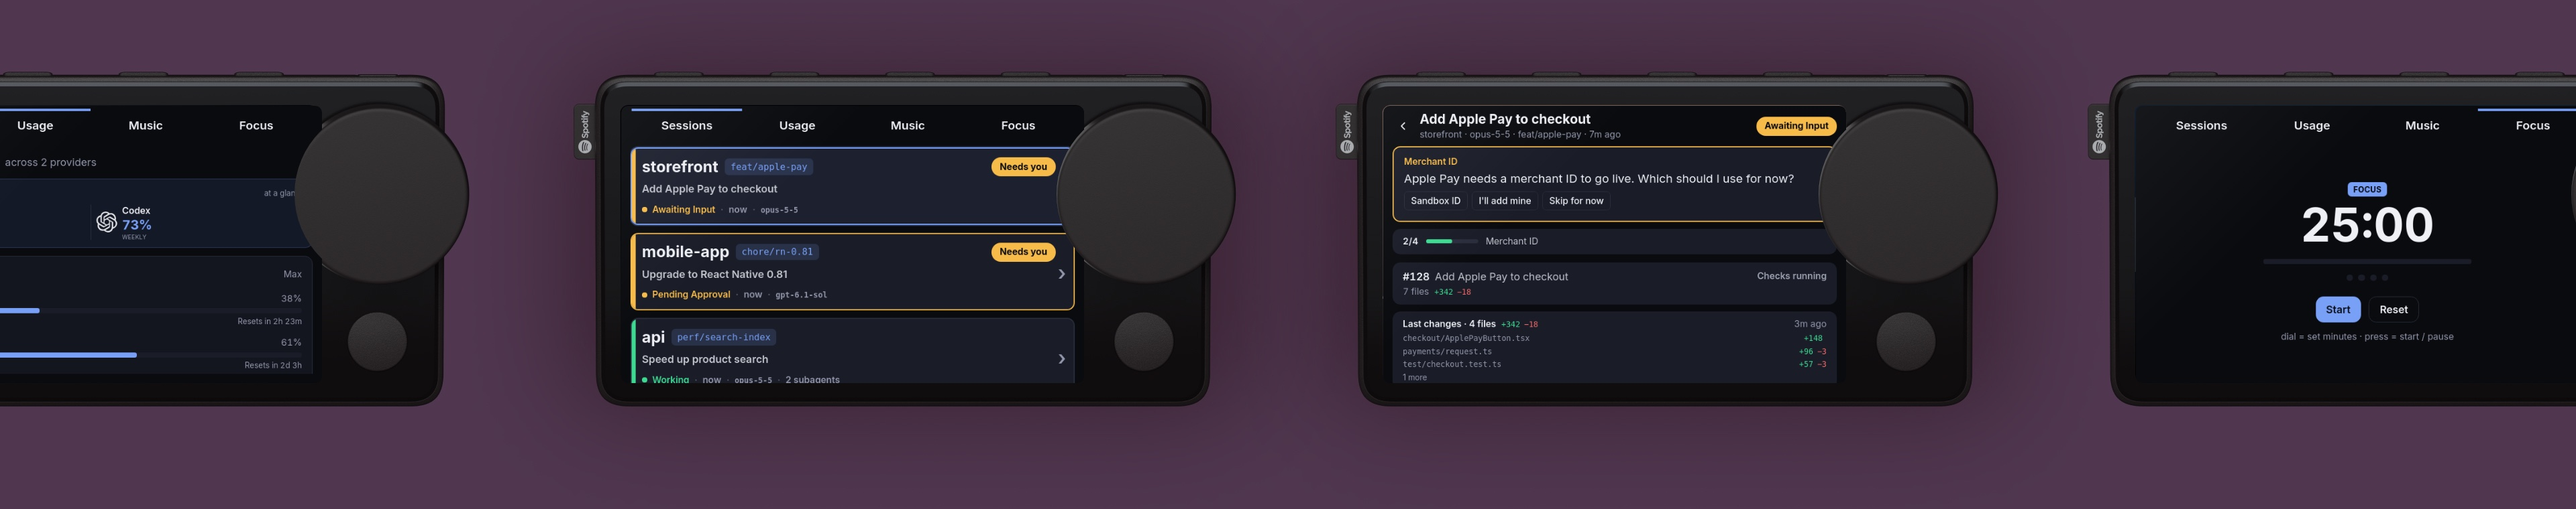
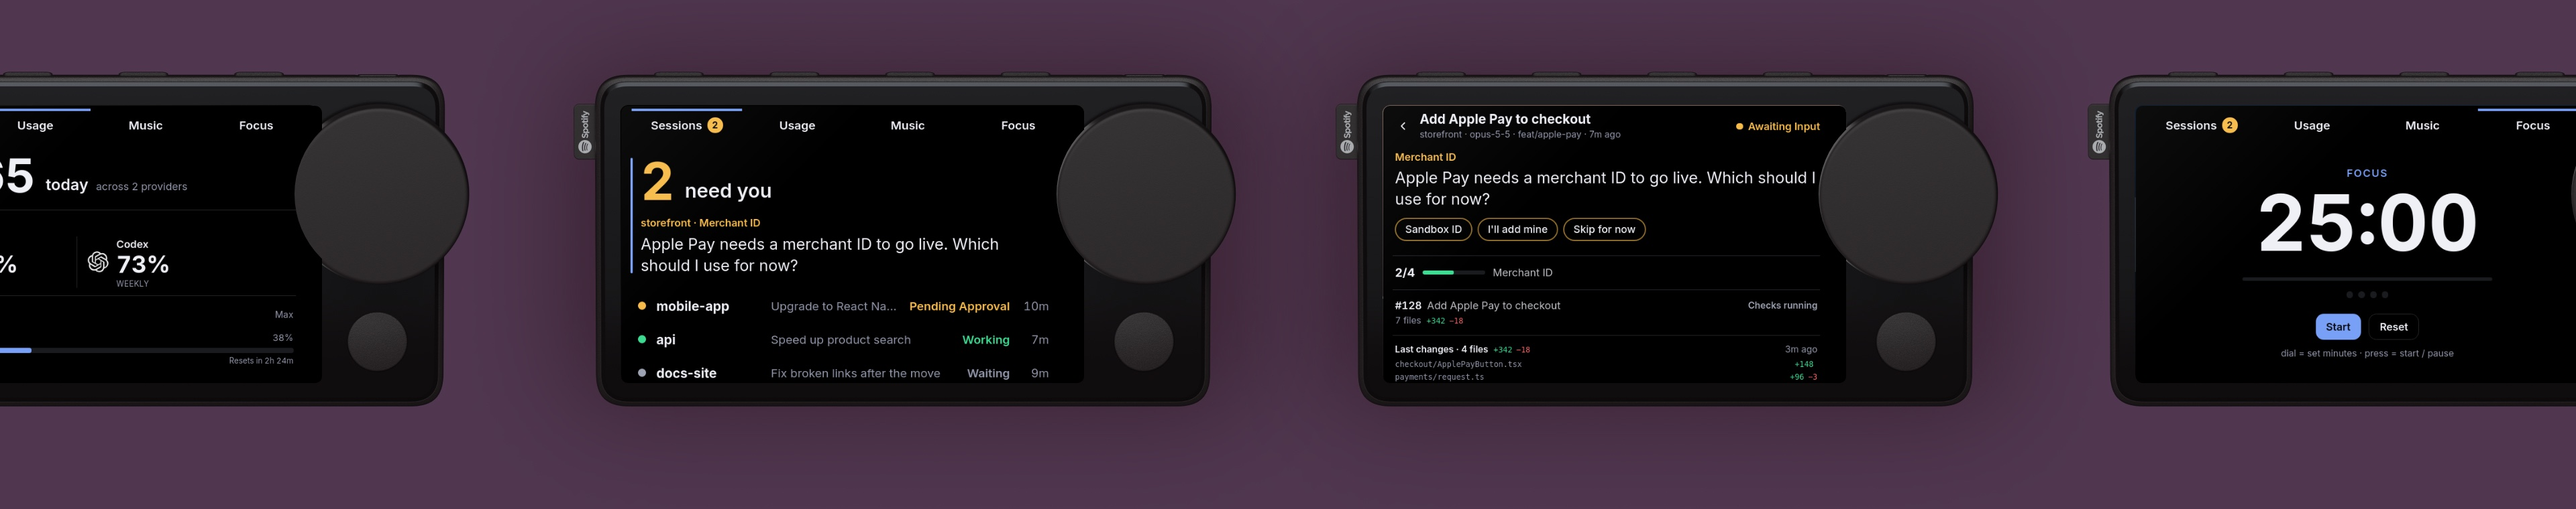
docs: refresh screenshots for the new look

diff --git a/README.md b/README.md
@@ -17,8 +17,8 @@ stays on all day.
 
 | | |
 |---|---|
-| ![Sessions board with two threads that need you and one working](docs/images/sessions.png) | ![Session detail with a question from the agent, task progress, a pull request and changed files](docs/images/session-detail.png) |
-| **Sessions.** Every active thread, sorted so the ones waiting for you come first. Each card shows the project, branch, status, model and running subagents. | **Session detail.** What the thread needs from you or is doing right now, its task progress, linked pull requests with their checks, the files it last changed, and a condensed timeline. |
+| ![Sessions board showing 2 threads need you and the first one's question](docs/images/sessions.png) | ![Session detail with a question from the agent, task progress, a pull request and changed files](docs/images/session-detail.png) |
+| **Sessions.** A huge count of threads that need you, with the first one's actual question, readable from across the desk. Every other thread sits on one line with its status and age. | **Session detail.** What the thread needs from you or is doing right now, its task progress, linked pull requests with their checks, the files it last changed, and a condensed timeline. |
 | ![Usage page with remaining limits for Claude and Codex](docs/images/usage.png) | ![Focus timer set to 25 minutes](docs/images/focus.png) |
 | **Usage.** Today's spend and the limits you have left across AI providers, with reset countdowns. | **Focus.** A Pomodoro timer you set with the dial. |
 
